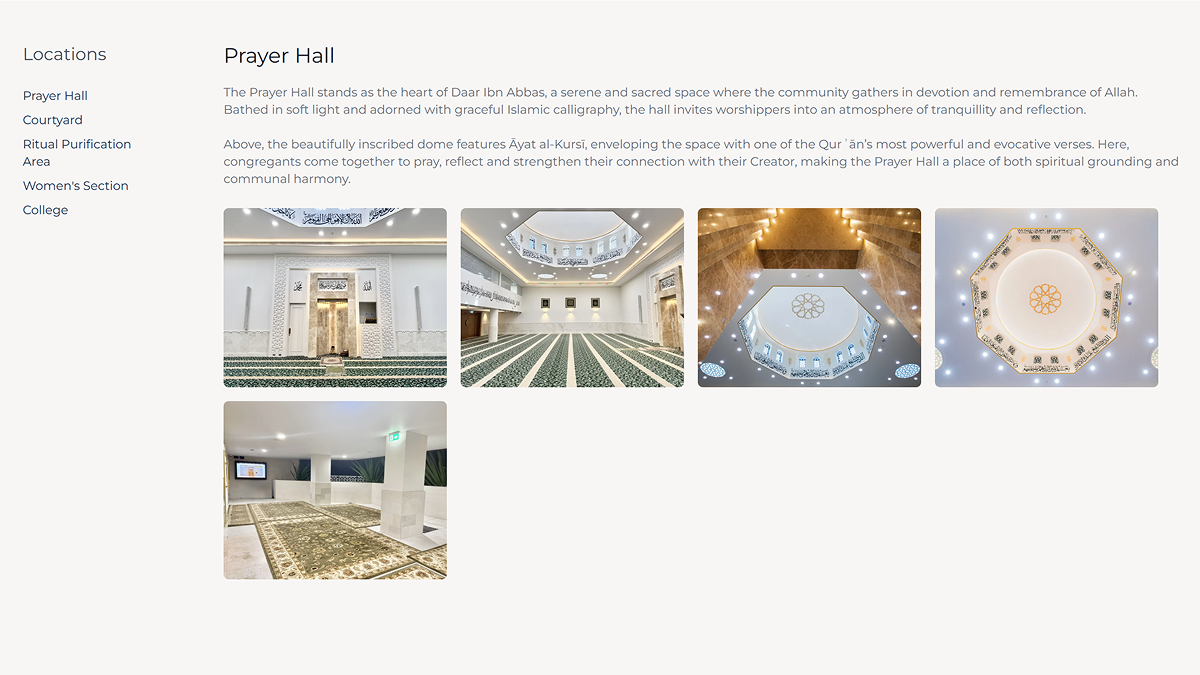
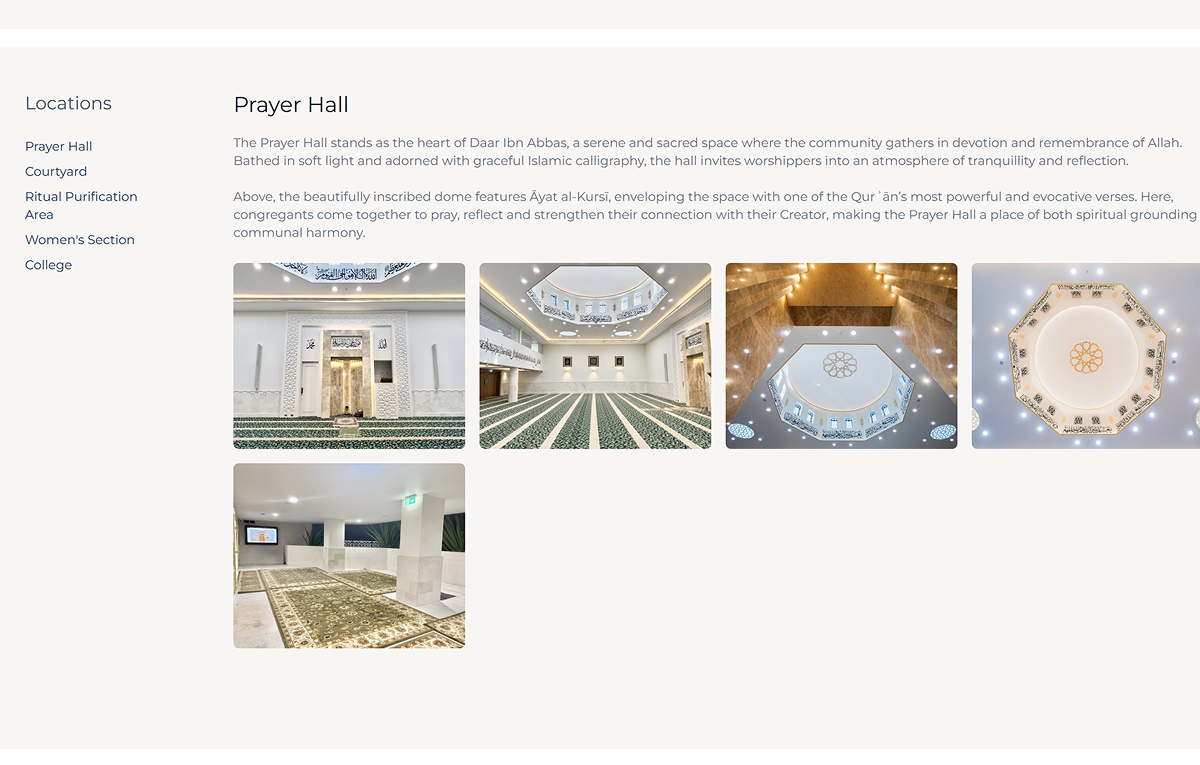
Reset hero images.

diff --git a/app/data/projects.ts b/app/data/projects.ts
@@ -46,11 +46,36 @@ export const projects = [
     heroImage: "/projects/team-directory/team-hero.png",
 
     gallery: [
-      "/projects/team-directory/team-desktop.png",
-      "/projects/team-directory/team-tablet.png",
-      "/projects/team-directory/team-mobile.png",
-      "/projects/team-directory/team-section-layout.png",
-      "/projects/team-directory/team-section.png",
+      {
+        image: "/projects/team-directory/team-desktop.png",
+        title: "Desktop Team Directory Layout",
+        description:
+          "Responsive desktop interface with dynamic team member rendering and structured content layout.",
+      },
+      {
+        image: "/projects/team-directory/team-tablet.png",
+        title: "Tablet Responsive View",
+        description:
+          "Adaptive tablet layout optimized for balanced spacing and responsive navigation.",
+      },
+      {
+        image: "/projects/team-directory/team-mobile.png",
+        title: "Mobile Team Interface",
+        description:
+          "Mobile-first responsive experience with optimized content flow and usability.",
+      },
+      {
+        image: "/projects/team-directory/team-section-layout.png",
+        title: "Section Layout Structure",
+        description:
+          "Reusable section-based layout system designed for scalability and visual consistency.",
+      },
+      {
+        image: "/projects/team-directory/team-section.png",
+        title: "Profile Section Design",
+        description:
+          "Structured team profile presentation with clean typography and content hierarchy.",
+      },
     ],
   },
 
@@ -101,12 +126,42 @@ export const projects = [
     heroImage: "/projects/authentication/auth-hero.png",
 
     gallery: [
-      "/projects/authentication/auth-desktop.png",
-      "/projects/authentication/auth-tablet.png",
-      "/projects/authentication/auth-mobile.png",
-      "/projects/authentication/auth-error.png",
-      "/projects/authentication/auth-validation.png",
-      "/projects/authentication/auth-required-field.png",
+      {
+        image: "/projects/authentication/auth-desktop.png",
+        title: "Desktop Authentication Layout",
+        description:
+          "Clean desktop authentication interface with structured form hierarchy and validation flow.",
+      },
+      {
+        image: "/projects/authentication/auth-tablet.png",
+        title: "Tablet Authentication View",
+        description:
+          "Responsive tablet layout maintaining balanced spacing and accessible form interaction.",
+      },
+      {
+        image: "/projects/authentication/auth-mobile.png",
+        title: "Mobile Login Experience",
+        description:
+          "Mobile-responsive authentication interface optimized for accessibility and usability.",
+      },
+      {
+        image: "/projects/authentication/auth-error.png",
+        title: "Error State Handling",
+        description:
+          "Structured error feedback system designed to improve clarity and user guidance.",
+      },
+      {
+        image: "/projects/authentication/auth-validation.png",
+        title: "Validation Workflow",
+        description:
+          "Form validation handling with responsive feedback and structured interaction states.",
+      },
+      {
+        image: "/projects/authentication/auth-required-field.png",
+        title: "Required Field Indicators",
+        description:
+          "Accessible required-field system improving form usability and interaction clarity.",
+      },
     ],
   },
 
@@ -157,11 +212,36 @@ export const projects = [
     heroImage: "/projects/virtual-tour/virtual-hero.png",
 
     gallery: [
-      "/projects/virtual-tour/tour-desktop.png",
-      "/projects/virtual-tour/tour-tablet.png",
-      "/projects/virtual-tour/tour-mobile.png",
-      "/projects/virtual-tour/tour-content.png",
-      "/projects/virtual-tour/tour-interaction.png",
+      {
+        image: "/projects/virtual-tour/tour-desktop.png",
+        title: "Desktop Virtual Experience",
+        description:
+          "Immersive desktop layout with structured navigation and responsive interaction flow.",
+      },
+      {
+        image: "/projects/virtual-tour/tour-tablet.png",
+        title: "Tablet Tour Interface",
+        description:
+          "Responsive tablet experience optimized for smooth navigation and visual balance.",
+      },
+      {
+        image: "/projects/virtual-tour/tour-mobile.png",
+        title: "Mobile Virtual Tour",
+        description:
+          "Mobile-first interface focused on responsive interaction and usability.",
+      },
+      {
+        image: "/projects/virtual-tour/tour-content.png",
+        title: "Content Presentation Layout",
+        description:
+          "Structured content hierarchy designed for immersive exploration and readability.",
+      },
+      {
+        image: "/projects/virtual-tour/tour-interaction.png",
+        title: "Interactive Navigation System",
+        description:
+          "Interactive UI flow supporting intuitive user movement and responsive transitions.",
+      },
     ],
   },
 
@@ -212,11 +292,36 @@ export const projects = [
     heroImage: "/projects/sponsors-showcase/sponsors-hero.png",
 
     gallery: [
-      "/projects/sponsors-showcase/sponsors-desktop.png",
-      "/projects/sponsors-showcase/sponsors-tablet.png",
-      "/projects/sponsors-showcase/sponsors-mobile.png",
-      "/projects/sponsors-showcase/sponsors-grid-layout.png",
-      "/projects/sponsors-showcase/sponsors-card-alignment.png",
+      {
+        image: "/projects/sponsors-showcase/sponsors-desktop.png",
+        title: "Desktop Sponsors Layout",
+        description:
+          "Responsive desktop sponsor showcase with structured grid alignment and spacing.",
+      },
+      {
+        image: "/projects/sponsors-showcase/sponsors-tablet.png",
+        title: "Tablet Sponsors View",
+        description:
+          "Adaptive tablet grid system maintaining responsive spacing consistency.",
+      },
+      {
+        image: "/projects/sponsors-showcase/sponsors-mobile.png",
+        title: "Mobile Sponsors Experience",
+        description:
+          "Mobile-responsive sponsor presentation optimized for readability and hierarchy.",
+      },
+      {
+        image: "/projects/sponsors-showcase/sponsors-grid-layout.png",
+        title: "Responsive Grid Structure",
+        description:
+          "Scalable sponsor grid system designed for flexible responsive layouts.",
+      },
+      {
+        image: "/projects/sponsors-showcase/sponsors-card-alignment.png",
+        title: "Card Alignment System",
+        description:
+          "Structured card alignment improving visual balance and responsive consistency.",
+      },
     ],
   },
 
@@ -267,11 +372,36 @@ export const projects = [
     heroImage: "/projects/courses-interface/courses-hero.png",
 
     gallery: [
-      "/projects/courses-interface/courses-desktop.png",
-      "/projects/courses-interface/courses-tablet.png",
-      "/projects/courses-interface/courses-mobile.png",
-      "/projects/courses-interface/courses-tags-positioning.png",
-      "/projects/courses-interface/courses-card-detail.png",
+      {
+        image: "/projects/courses-interface/courses-desktop.png",
+        title: "Desktop Courses Interface",
+        description:
+          "Responsive desktop course layout with scalable card-based presentation.",
+      },
+      {
+        image: "/projects/courses-interface/courses-tablet.png",
+        title: "Tablet Courses View",
+        description:
+          "Adaptive tablet interface optimized for balanced spacing and readability.",
+      },
+      {
+        image: "/projects/courses-interface/courses-mobile.png",
+        title: "Mobile Courses Experience",
+        description:
+          "Mobile-responsive layout focused on usability and structured content flow.",
+      },
+      {
+        image: "/projects/courses-interface/courses-tags-positioning.png",
+        title: "Adaptive Tag Positioning",
+        description:
+          "Dynamic tag placement system designed for scalable responsive layouts.",
+      },
+      {
+        image: "/projects/courses-interface/courses-card-detail.png",
+        title: "Course Card Structure",
+        description:
+          "Reusable course card system with structured hierarchy and responsive spacing.",
+      },
     ],
   },
 ];

diff --git a/app/projects/[slug]/page.tsx b/app/projects/[slug]/page.tsx
@@ -66,7 +66,7 @@ export default async function CaseStudyPage({
               alt={project.title}
               fill
               priority
-              className="object-cover"
+              className="object-cover object-top"
             />
 
           </div>
@@ -155,17 +155,35 @@ export default async function CaseStudyPage({
 
           <div className="grid grid-cols-1 sm:grid-cols-2 gap-4 md:gap-6">
 
-            {project.gallery.map((image, index) => (
+            {project.gallery.map((item, index) => (
               <div
                 key={index}
-                className="relative w-full h-[220px] sm:h-[260px] md:h-[320px] lg:h-[360px] rounded-xl overflow-hidden border border-[var(--brand-border)] bg-white"
+                className="border border-[var(--brand-border)] rounded-xl overflow-hidden bg-white transition-all duration-300 hover:shadow-md"
               >
-                <Image
-                  src={image}
-                  alt={`${project.title} preview ${index + 1}`}
-                  fill
-                  className="object-cover transition-transform duration-500 hover:scale-105"
-                />
+
+                {/* Image */}
+                <div className="relative w-full h-[220px] sm:h-[260px] md:h-[320px] lg:h-[360px] overflow-hidden">
+                  <Image
+                    src={item.image}
+                    alt={item.title}
+                    fill
+                    className="object-cover object-top transition-transform duration-500 hover:scale-105"
+                  />
+                </div>
+
+                {/* Content */}
+                <div className="p-4 md:p-5">
+
+                  <h3 className="text-base md:text-lg font-semibold text-[var(--brand-dark)] mb-2">
+                    {item.title}
+                  </h3>
+
+                  <p className="text-sm md:text-base text-[var(--brand-text)] leading-relaxed">
+                    {item.description}
+                  </p>
+
+                </div>
+
               </div>
             ))}
 
